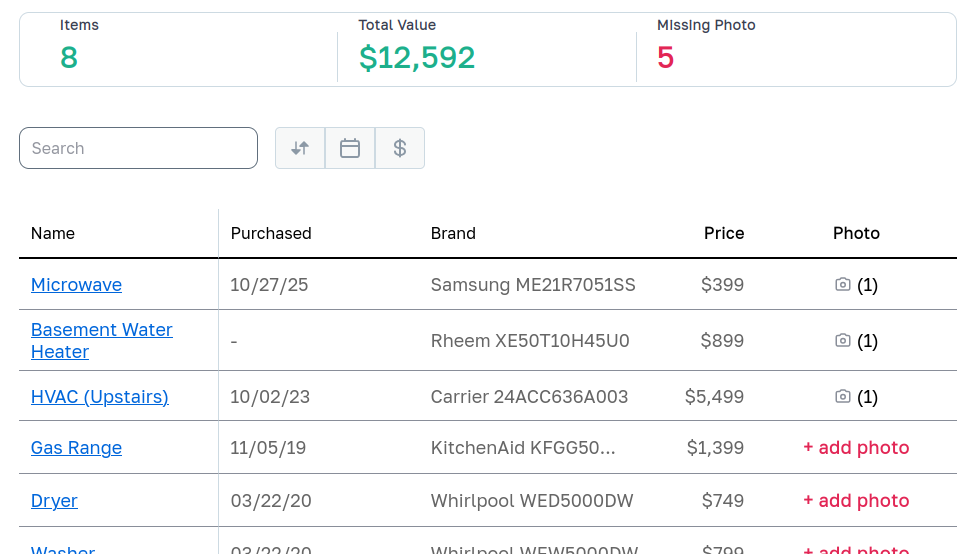
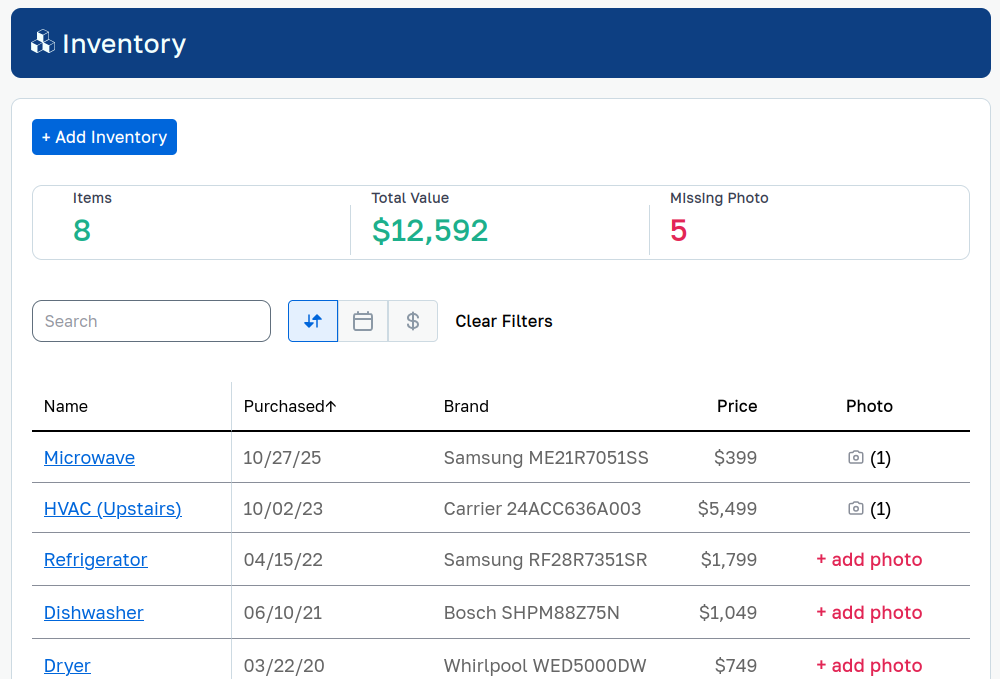
update feature images and border radius

diff --git a/src/css/_features.scss b/src/css/_features.scss
@@ -180,7 +180,7 @@
 .feature__mockup {
   width: 100%;
   border: 1px solid $color-border;
-  border-radius: $radius-xl;
+  border-radius: $radius-md;
   box-shadow: $shadow-xl;
 }
 